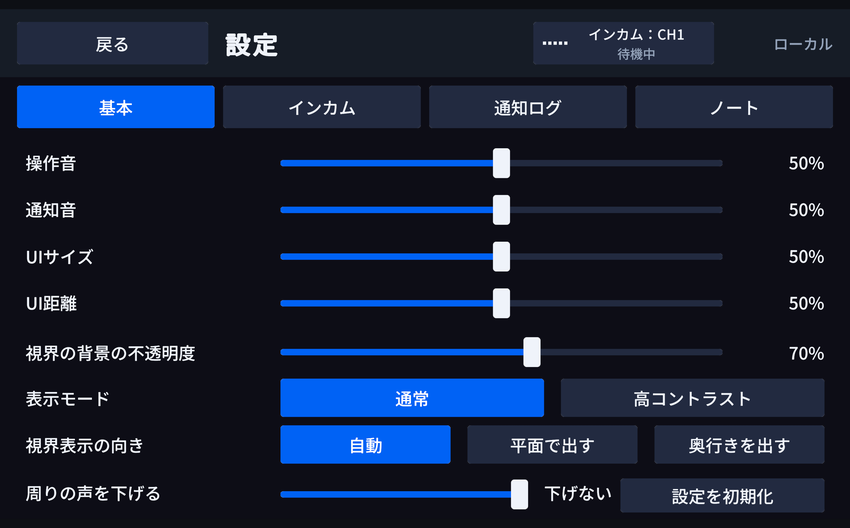
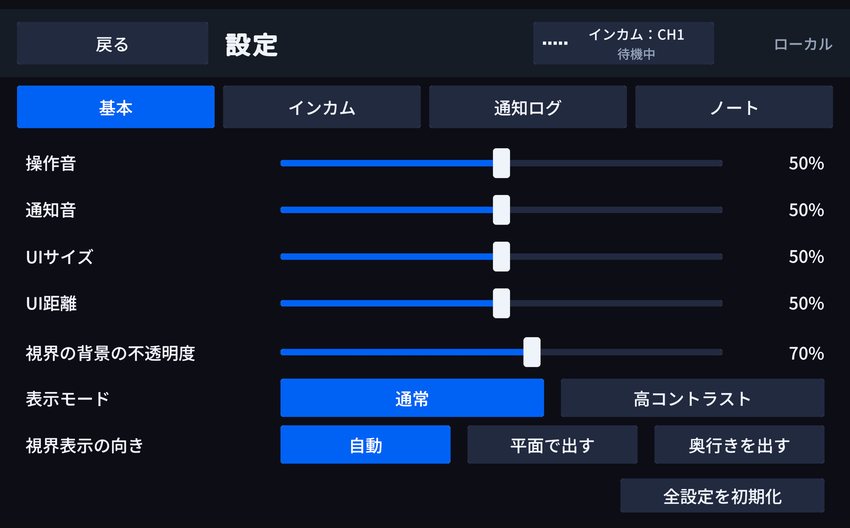
SBS マニュアル: 設定の「スピーカー音量」「使用中の周りの声」「全設定を初期化」と、周りの声の下限（1 dB）に合わせる
インカムタブの配置変更（周りの声を基本タブから移動・数値表示なし）と、周りの声の最大量を「既定値−1」にした修正
（声の大きさ 0 で下がらなくなるため）を反映。設定タブの画像2枚を撮り直した。

Changed region(s): [[0.3365, 0.9091, 0.7035, 0.9697], [0.7647, 0.9091, 0.9176, 0.9697], [0.0306, 0.9091, 0.1835, 0.9697]]

diff --git a/docs/staff-bridge-system/faq.md b/docs/staff-bridge-system/faq.md
@@ -26,13 +26,13 @@
 :   一部しか補えません。[Voice Gain](https://creators.vrchat.com/worlds/udon/players/player-audio/)は VRChat の仕様で上限が 24 dB のため、上げられる幅に限りがあります。
 
 インカムとメガホンの声の大きさは、どこで変えられますか？
-:   ワールド全体の既定値はセットアップウィンドウの「インカム」ページ（1〜24 dB）、スタッフ各自はメニューの[設定タブ](usage.md#voice-gain)にある「声の大きさ」スライダーで調整できます。どちらも「聞く側に届く音量」の設定であり、話す側のマイク音量を変えるものではありません。なお、スタッフ各自のスライダーは自分に聞こえる音量だけを変え、ほかの人の聞こえ方は変わりません（ワールド全体の既定値は、全員の聞こえ方に影響します）。
+:   ワールド全体の既定値はセットアップウィンドウの「インカム」ページ（1〜24 dB）、スタッフ各自はメニューの[設定](usage.md#voice-gain)の「インカム」タブにある「スピーカー音量」で調整できます。どちらも「聞く側に届く音量」の設定であり、話す側のマイク音量を変えるものではありません。なお、スタッフ各自のスライダーは自分に聞こえる音量だけを変え、ほかの人の聞こえ方は変わりません（ワールド全体の既定値は、全員の聞こえ方に影響します）。
 
 インカムやメガホンの使用中に、周りの人の声を小さくできますか？ { #duck }
-:   可能です。メニューの[設定](usage.md#duck)の「基本」タブ最下部にある「周りの声を下げる」で、減衰量を各自が設定します。自分が話している間、自チャンネルの発話を聞いている間、メガホンの声を聞いている間に、発話者以外の声が自分の側だけ小さくなります。他の参加者の聞こえ方には影響しません（BGM・効果音・アバターの音は減衰対象外です）。
+:   可能です。メニューの[設定](usage.md#duck)の「インカム」タブ最下部にある「使用中の周りの声」で、減衰量を各自が設定します。自分が話している間、自チャンネルの発話を聞いている間、メガホンの声を聞いている間に、発話者以外の声が自分の側だけ小さくなります。他の参加者の聞こえ方には影響しません（BGM・効果音・アバターの音は減衰対象外です）。
 
 「周りの声を下げる」の既定値はどうなっていますか？
-:   初期状態は「下げない」（0 dB）です。設定を変更するまでは従来通りの聞こえ方となります。減衰量は 0 〜 −（ワールドの既定値）dB の範囲で指定でき、例えば既定が 15 dB のワールドでは 0 〜 −15 dB となります。設定値は端末に保存され再入場後も保持されます（「設定を初期化」で「下げない」に戻ります）。なお、最大まで下げても無音にはなりません。
+:   初期状態は「下げない」（スライダーの右端）です。設定を変更するまでは従来通りの聞こえ方となります。下げたあとの声の大きさが 1 dB になるまで下げられ、例えば既定が 15 dB のワールドでは最大 14 dB 下げられます。設定値は端末に保存され再入場後も保持されます（「全設定を初期化」で「下げない」に戻ります）。なお、最大まで下げても無音にはなりません。
 
 「周りの声を下げる」と併用できないものはありますか？
 :   防音室など、参加者の声の大きさを操作する他の外部ギミックとは併用できません。同一の Voice Gain 設定を書き換えるためです。減衰量を「下げない」にしている限り既存の動作に影響はありません。診断・修復機能の「声を書き換える他ギミック」項目で、併用の有無を確認できます。

diff --git a/docs/staff-bridge-system/install.md b/docs/staff-bridge-system/install.md
@@ -121,7 +121,7 @@ Hierarchyでオブジェクトを選択し、右クリック > **GameObject > MG
 1. 新しい unitypackage をプロジェクトへインポートします。
 2. セットアップウィンドウの「診断・修復」を開き、追加・修復項目を実行します。
     - **声の大きさの調整を追加** / **前面表示に設定**（v1.1.0 向け）：該当項目が表示されていれば実行します。
-    - **周りの声を下げるスライダーを追加**（v1.2.0 向け）：メニューをアンパック等で使用している場合に表示されます。ボタンを押して機能を追加してください（Prefab のまま使用している場合は、後述の「インカムを再リンク」で接続されます）。
+    - **周りの声を下げるスライダーを追加**（v1.2.0 向け）：メニューをアンパック等で使用している場合に表示されます。追加した行は、設定の「基本」タブの一番下に「インカム使用中の周りの声」として入ります。「インカム」タブの表示は前の版のままですが、メニューを作り直すと v1.2.0 の配置になります。ボタンを押して機能を追加してください（Prefab のまま使用している場合は、後述の「インカムを再リンク」で接続されます）。
     - **プロップタブ（未配置）**（v1.2.0 向け）：プロップを使用する場合のみ「プロップタブを追加」を押してください（初期状態は無効）。
     - **スイッチのカテゴリ分けとお気に入り**（v1.2.0 向け）：Prefab のままお使いの場合は、インポートだけで、スイッチタブに「すべて」「お気に入り」のタブと、各行の★が加わります（カテゴリは、セットアップウィンドウの「スイッチ」で登録するまで増えません）。アンパック等でお使いの場合は、診断に「スイッチのカテゴリ分けとお気に入り（未配置）」と表示されます（お知らせだけで、ボタンはありません）。使うには、セットアップウィンドウの「メニュー構成」で「この構成でメニューを作り直す」を押すと、スイッチの設定を引き継いだまま、タブと★が加わります。ただし、メニューは新しいオブジェクトになるので、見た目や階層を手で変えている場合は、先にバックアップを取ってください（Ctrl+Z で元に戻せます）。使わない場合は、そのままで問題ありません。
 3. Prefab のままお使いの場合、インポート直後に「インカムの接続」と「周りの声を下げる（PA Supervisor接続）」に関する警告が一度表示されることがあります。「インカムを再リンク」を押すと解消し、周りの声を下げる機能のコンポーネントも自動接続されます（警告が残る場合は「PA Supervisorへ接続」を押してください）。

diff --git a/docs/staff-bridge-system/changelog.md b/docs/staff-bridge-system/changelog.md
@@ -2,7 +2,7 @@
 
 ## 1.2.0（公開日未定）
 
-- **周りの声を下げる**：インカム・メガホンの使用中、周りの声を自分の側だけ小さくする機能を追加。減衰量は設定の「基本」タブでスタッフ各自が指定可能（初期値は「下げない」）
+- **周りの声を下げる**：インカム・メガホンの使用中、周りの声を自分の側だけ小さくする機能を追加。減衰量は設定の「インカム」タブの「使用中の周りの声」でスタッフ各自が指定可能（初期値は「下げない」）
 - **スイッチのカテゴリとお気に入り**：スイッチをカテゴリ（最大9個）に分類してタブで絞り込む機能、および★マークによるお気に入りタブへの登録機能を追加（セットアップウィンドウでドラッグして分類）
 - **スイッチタブの表示件数の変更**：1ページあたりの表示件数が20件から14件に変更（15件以上はページ送り）
 - **プロップインベントリ**：登録した小道具（プロップ）を、SBSメニューから手元（ローカル）や全員の前（グローバル）に出し入れする機能を追加（初期状態はオフ。セットアップウィンドウの「プロップを使う」で有効化）
@@ -11,6 +11,7 @@
 - **セットアップウィンドウのリンク追加**：ウィンドウ右上に「更新履歴」「開発状況」のリンクボタンを追加
 - **診断・修復の拡張**：既存ワールド向けに、周りの声を下げる機能の追加、プロップタブの追加、および Prefab の再リンク処理に対応
 - **診断・修復の案内追加**：アンパック等のメニュー向けに「スイッチのカテゴリ分けとお気に入り（未配置）」のお知らせを追加（ボタンはなく、メニューを作り直すと使えるようになる旨を通知）
+- **設定の項目名の変更**：「インカム」タブの「声の大きさ」を「スピーカー音量」に、「基本」タブの「設定を初期化」を「全設定を初期化」に変更。スピーカー音量の数値表示は廃止
 - **診断・修復の項目名の変更**：画面の表示を整理しました。旧「メニューを手前に描く」は「前面表示に設定」、旧「インカムの音声制御役」は「インカムの音声制御（PA Supervisor）」です。機能は変わりません。
 
 ※既存ワールドからの更新手順は [既存のワールドを更新する](install.md#update) を参照してください。

diff --git a/docs/staff-bridge-system/troubleshoot.md b/docs/staff-bridge-system/troubleshoot.md
@@ -93,7 +93,7 @@
 
 インカムやメガホンの使用中に周りの声を小さくする機能が動作しない場合は、以下の順に確認してください。
 
-1. **減衰量が「下げない」になっていないか**：設定の「基本」タブ最下部にある「周りの声を下げる」が「下げない」の場合、音量は変化しません。スライダーを動かして減衰量を指定してください（[使い方](usage.md#duck)）。なお、ワールドの既定値が 0 dB の場合は減衰の余地がないためスライダーを操作できません。
+1. **減衰量が「下げない」になっていないか**：設定の「インカム」タブ最下部にある「使用中の周りの声」が右端（「下げない」）の場合、音量は変化しません。スライダーを動かして減衰量を指定してください（[使い方](usage.md#duck)）。なお、ワールドの既定値が 1 dB 以下の場合は減衰の余地がないためスライダーを操作できません。
 2. **診断・修復で接続切れが発生していないか**：セットアップウィンドウの「診断・修復」に「周りの声を下げる（PA Supervisor接続）」が表示されている場合は「PA Supervisorへ接続」を押してください。「周りの声を下げる（設定の「基本」タブ）」が出ている場合は、機能コンポーネントが未追加の状態です（[既存のワールドを更新する](install.md#update)）。
 3. **声の制御が無効化されていないか**：「周りの声を下げる設定（「基本」タブ）」が表示されている場合は、PA Supervisor の Enable Player Voice Control が無効です。有効に戻すことで減衰が機能します。インカムを一時停止している間も本制御は無効になります。無効のまま入場するとスライダー操作が制限される場合があるため、有効化後に再入場してください。
 4. **併用不可能な外部ギミックが存在しないか**：防音室など、参加者の声の大きさを操作する他のギミックとは併用できません（[他ギミック使用時の停止](howto.md#pause-for-other-gimmick)）。

diff --git a/docs/staff-bridge-system/howto.md b/docs/staff-bridge-system/howto.md
@@ -107,8 +107,8 @@
 | 受信時に誰が話しているかを視界で見たい | 各自がメニューの[設定タブ](usage.md#settings)で **受信時の発話者名** を ON（既定 ON） |
 | 誰の声が誰に聞こえるか事前に確かめたい | 診断・修復ページ > インカム聴こえ方マトリクス検査 |
 | インカムの声を大きく／小さくしたい | インカムページ > **インカムの声の大きさ（dB）**（既定 12・範囲 1〜24）。[詳細](reference.md#voice-gain) |
-| スタッフ各自が自分の聞こえ方に合わせたい | 各自がメニューの[設定](usage.md#voice-gain)の「インカム」タブで **声の大きさ** を調整 |
-| インカムを使うとき周りの声を小さくしたい | 各自がメニューの[設定](usage.md#duck)の「基本」タブの一番下で **周りの声を下げる** を設定（既定は下げない）。自分の側だけ小さくなります。[詳細](reference.md#incom-duck) |
+| スタッフ各自が自分の聞こえ方に合わせたい | 各自がメニューの[設定](usage.md#voice-gain)の「インカム」タブで **スピーカー音量** を調整 |
+| インカムを使うとき周りの声を小さくしたい | 各自がメニューの[設定](usage.md#duck)の「インカム」タブの一番下で **使用中の周りの声** を設定（既定は「下げない」）。自分の側だけ小さくなります。[詳細](reference.md#incom-duck) |
 | 「声が小さい」と言われた | 先に聞く人の[イヤーマフ](https://docs.vrchat.com/docs/vrchat-202222p3)と個別音量を確認 → [トラブルシューティング](troubleshoot.md#voice-small) |
 
 ## メガホン
